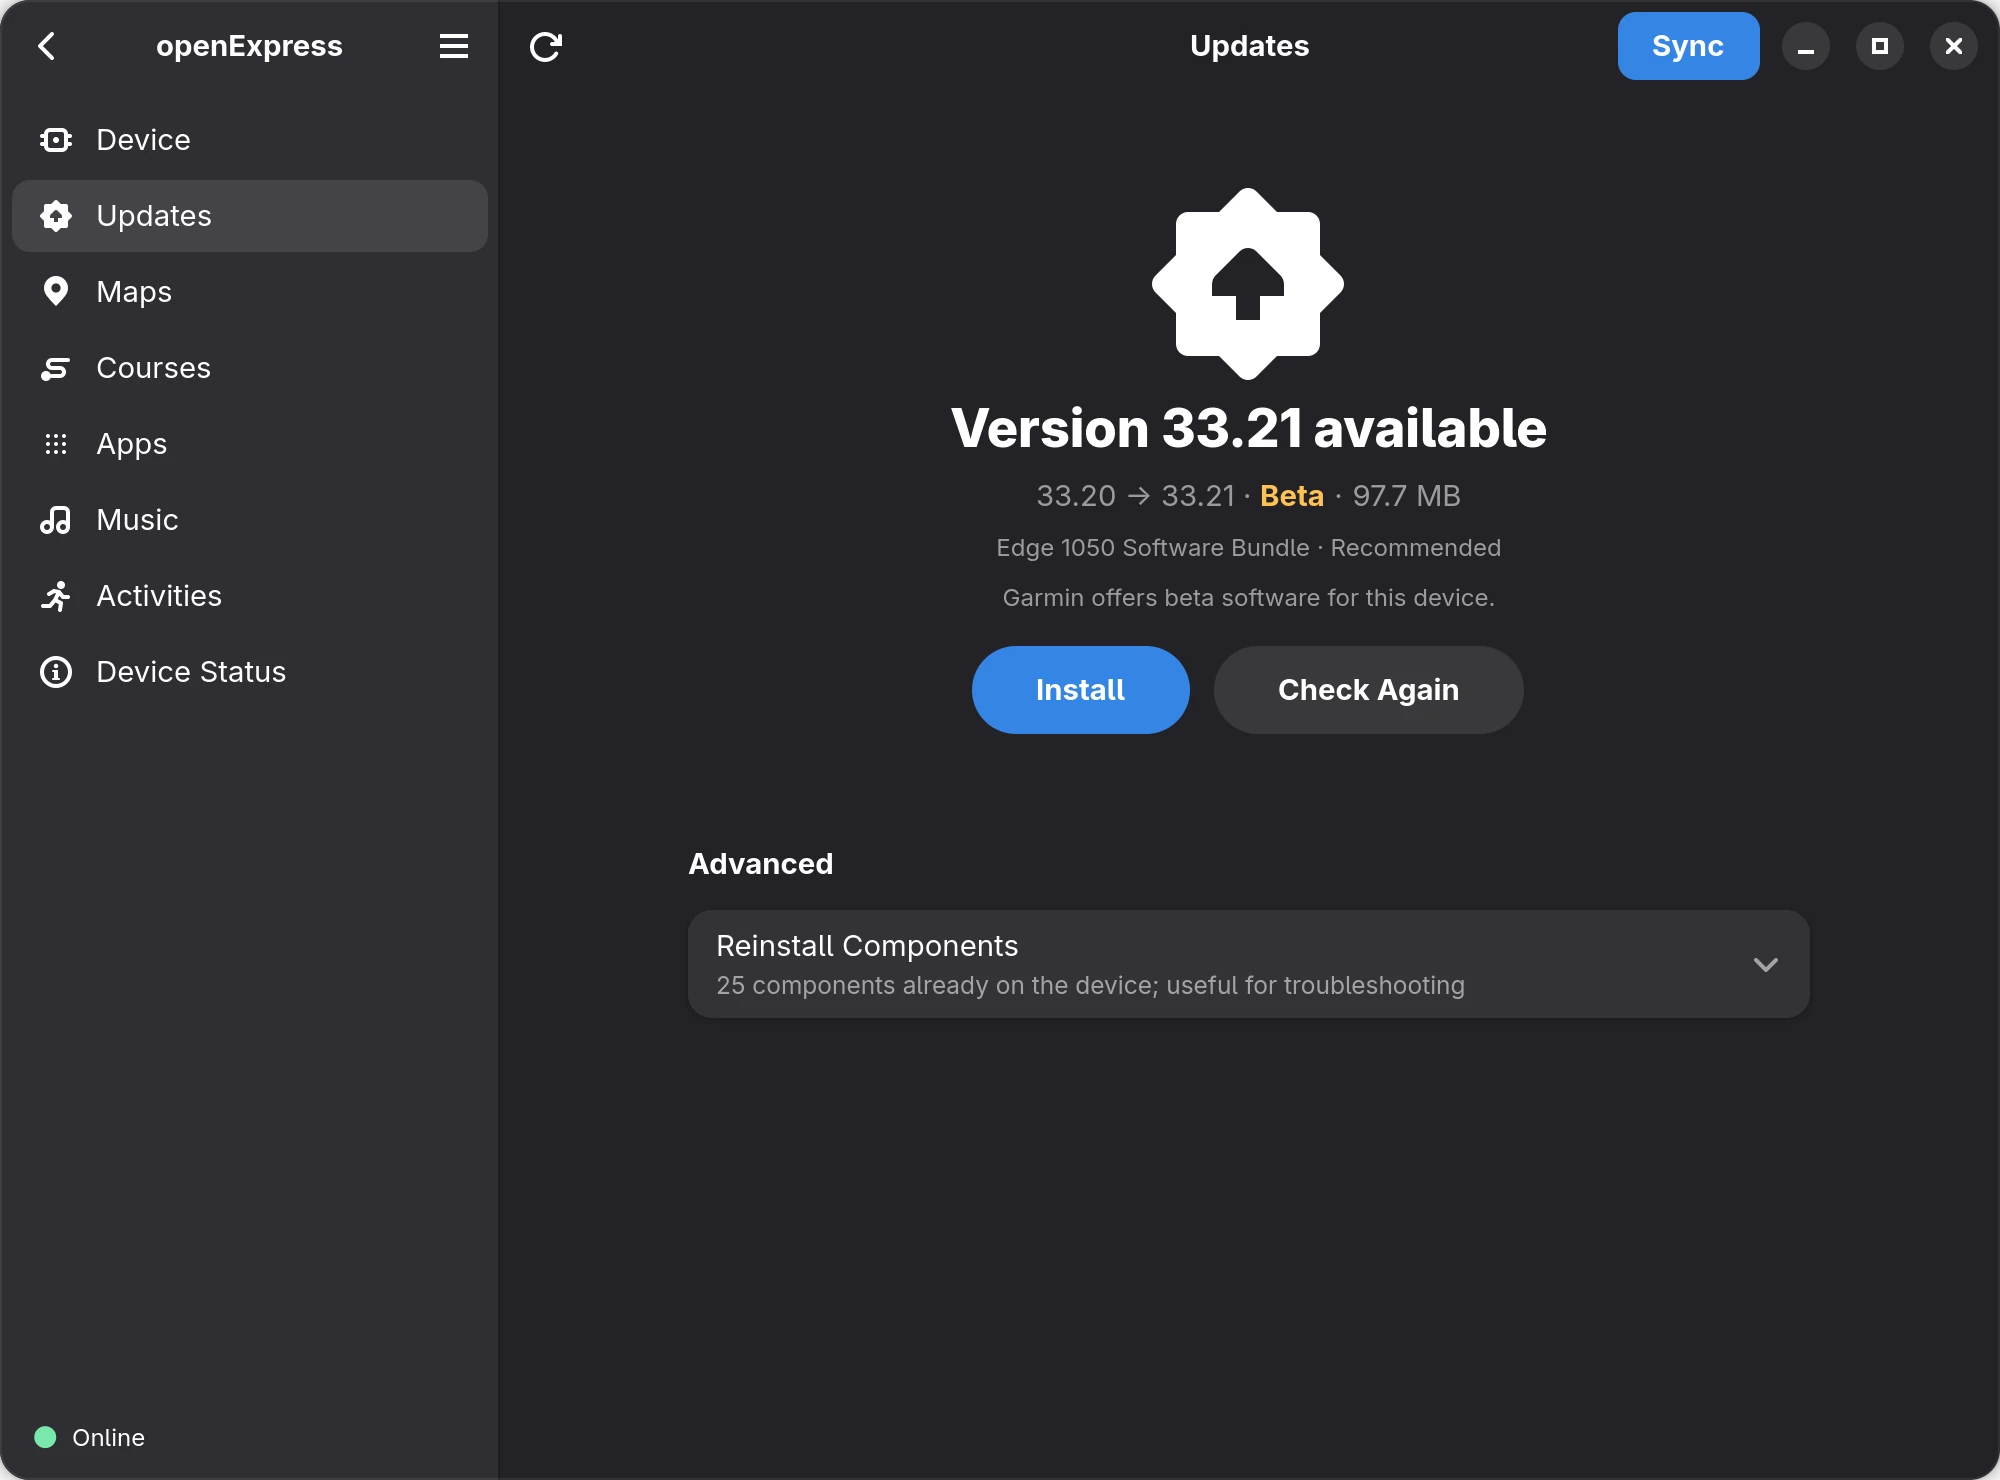
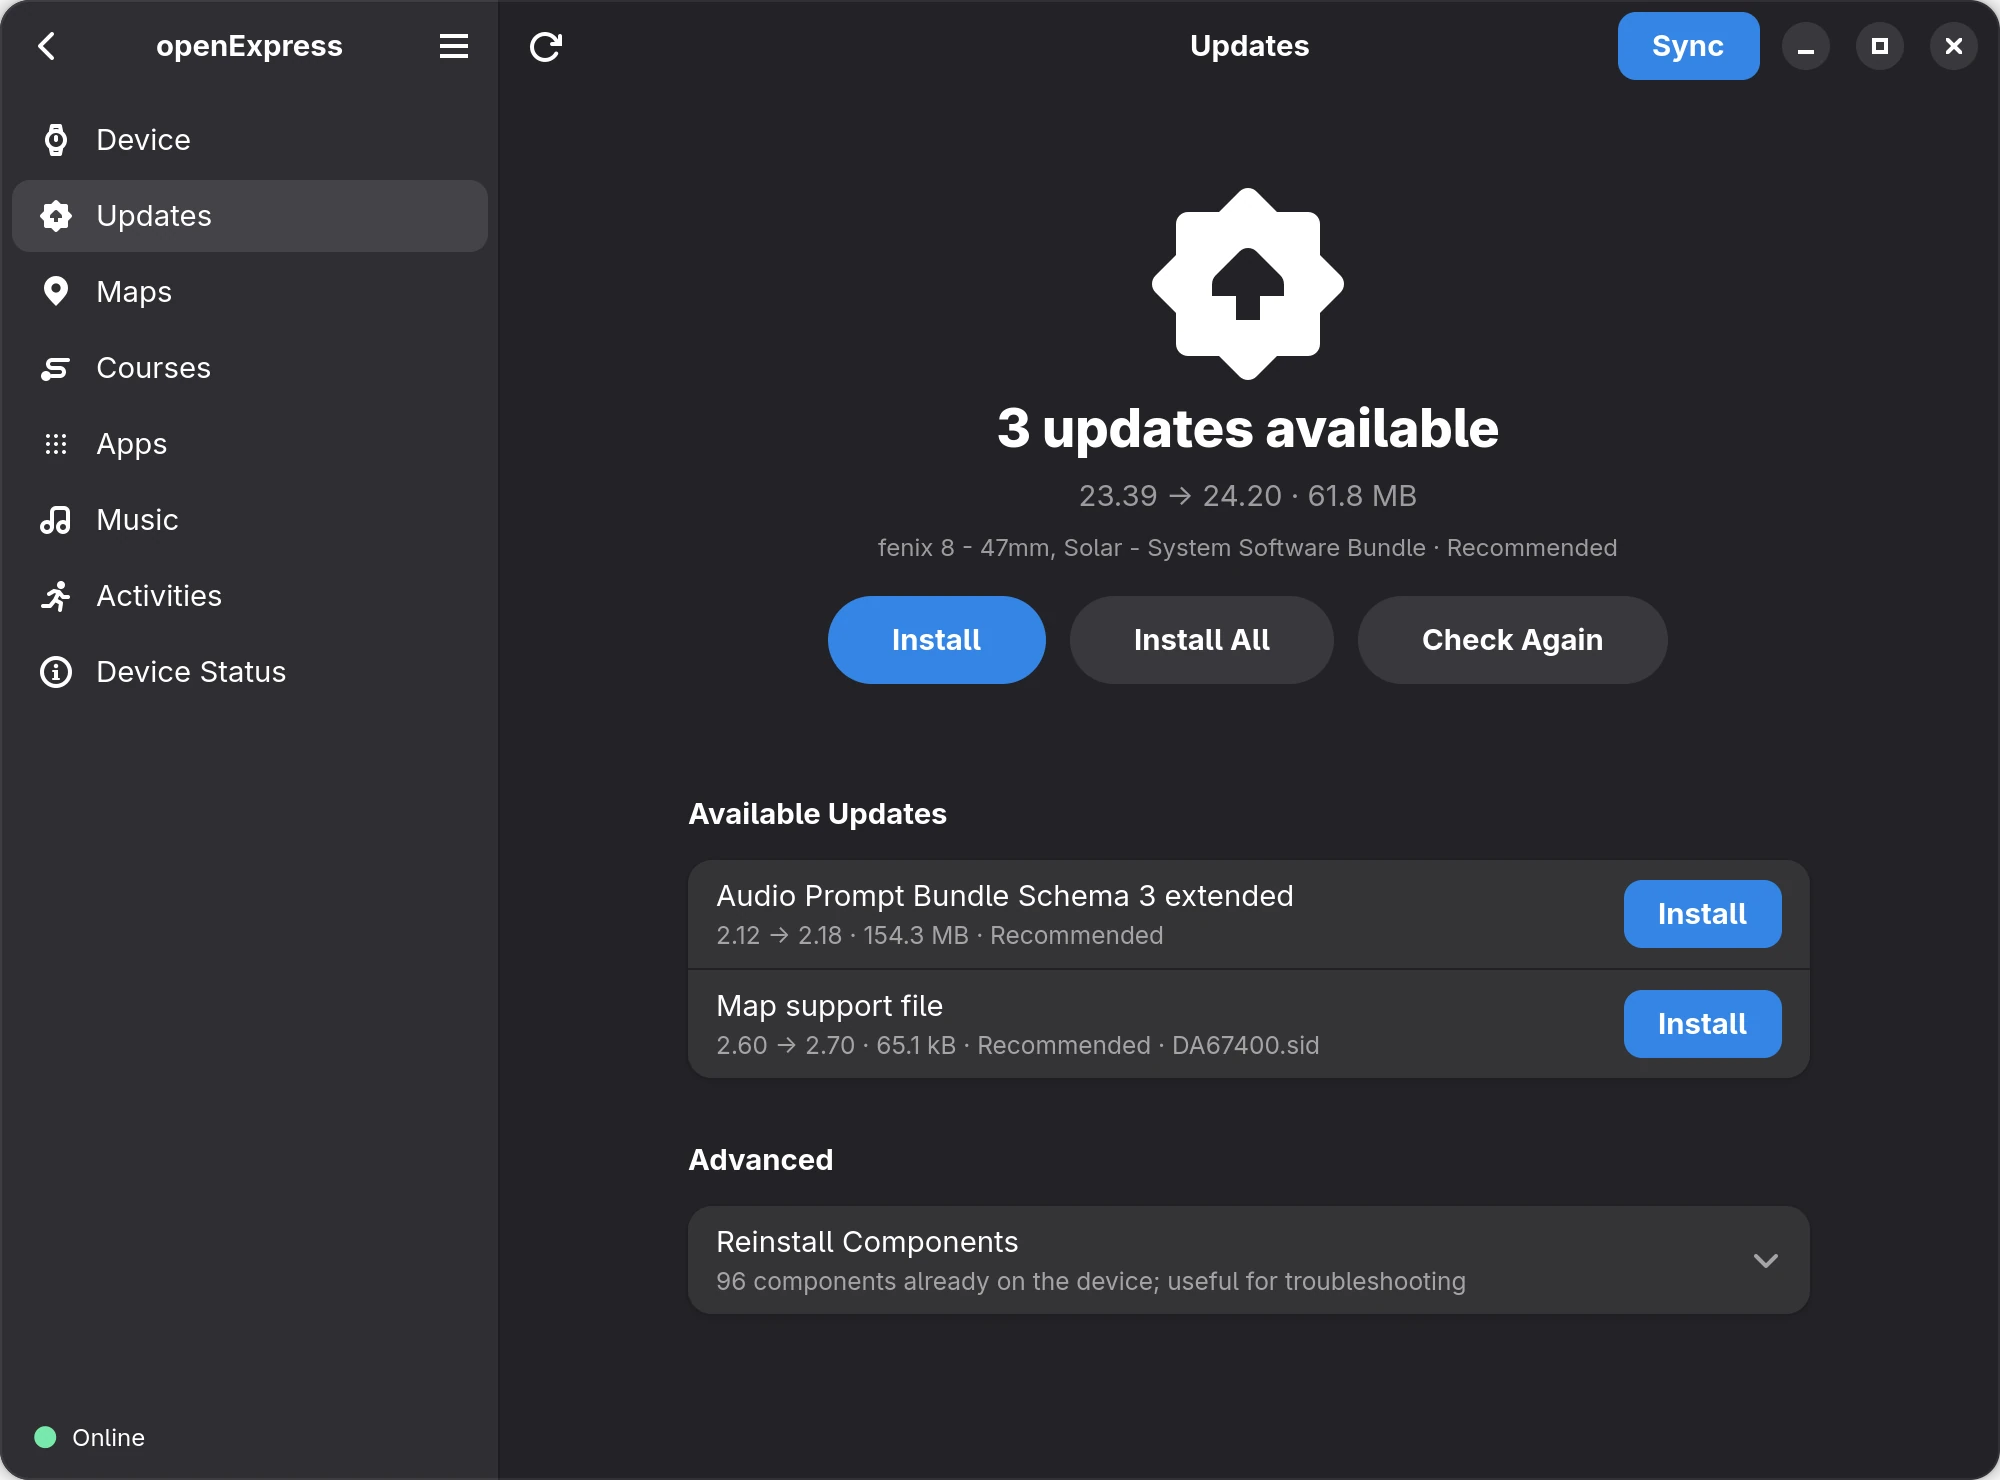
Website: 0.12.0 – sensors and solar charging from the Garmin Connect account, the Updates page of a fēnix 8 with three updates, the current version

diff --git a/index.html b/index.html
@@ -31,7 +31,7 @@
     <h1>openExpress</h1>
     <p class="summary">Manage your Garmin device on Linux</p>
     <p class="lead">An unofficial app for Garmin watches and bike computers: sync with Garmin Connect, software updates, maps, Connect IQ apps and music, over USB.</p>
-    <p class="new"><a href="#updates">New in 0.11.0: car navigators such as the Drive&nbsp;53&nbsp;EX</a></p>
+    <p class="new"><a href="#sensors">New in 0.12.0: your sensors' batteries and solar charging</a></p>
     <p class="unofficial">Unofficial and independent: not affiliated with, endorsed by or supported by Garmin.</p>
     <p class="actions">
       <a class="button install" href="https://flatpak.bojanowski.me/io.github.tomaszbojanowski.OpenExpress.flatpakref">Install</a>
@@ -172,10 +172,10 @@ flatpak install --user bojanowski io.github.tomaszbojanowski.OpenExpress</code><
         <a class="zoom" href="screenshots/full/light-updates.webp" data-dark="screenshots/full/dark-updates.webp">
           <picture>
             <source media="(prefers-color-scheme: dark)" srcset="screenshots/dark-updates.webp">
-            <img src="screenshots/light-updates.webp" width="1400" height="1036" loading="lazy" alt="The Updates page of an Edge 1050: version 33.21 available, a beta of 97.7 MB, with Install and Check Again, and Reinstall Components under Advanced">
+            <img src="screenshots/light-updates.webp" width="1400" height="1036" loading="lazy" alt="The Updates page of a fēnix 8: 3 updates available, the system software 23.39 → 24.20 of 61.8 MB with Install, Install All and Check Again, an audio prompt bundle and a map support file with Install, and Reinstall Components under Advanced">
           </picture>
         </a>
-        <figcaption>The update Garmin offers: its version, its size, and whether it is a&nbsp;beta</figcaption>
+        <figcaption>The updates Garmin offers: their versions and their sizes</figcaption>
       </figure>
       <figure class="shot">
         <a class="zoom" href="screenshots/full/light-update-confirm.webp" data-dark="screenshots/full/dark-update-confirm.webp">
@@ -210,6 +210,22 @@ flatpak install --user bojanowski io.github.tomaszbojanowski.OpenExpress</code><
           </picture>
         </a>
         <figcaption>Turned on: refreshed by the sync just made</figcaption>
+      </figure>
+    </div>
+  </section>
+
+  <section class="updates" id="sensors" aria-labelledby="sensors-title">
+    <h2 id="sensors-title">Sensors and solar charging</h2>
+    <p>On the device page, Account Sensors lists the sensors on your Garmin Connect account with their batteries and when each was last connected, low batteries first. For a watch or bike computer that charges from the sun, Solar Charging says how much activity time the sun added today and in the last 7&nbsp;days. openExpress only reads them from your account; on the command line: <code>openexpress sensors</code> and <code>openexpress solar</code>.</p>
+    <div class="shot-row single">
+      <figure class="shot">
+        <a class="zoom" href="screenshots/full/light-account.webp" data-dark="screenshots/full/dark-account.webp">
+          <picture>
+            <source media="(prefers-color-scheme: dark)" srcset="screenshots/dark-account.webp">
+            <img src="screenshots/light-account.webp" width="1400" height="1036" loading="lazy" alt="The device page of a fēnix 8 Solar: the Garmin Connect account with Account Sensors expanded on five sensors, their batteries and last connections, and Solar Charging: under a minute in the last 7 days">
+          </picture>
+        </a>
+        <figcaption>The account's five sensors with their batteries, and solar charging</figcaption>
       </figure>
     </div>
   </section>
@@ -255,7 +271,7 @@ flatpak install --user bojanowski io.github.tomaszbojanowski.OpenExpress</code><
         <span class="chip"><svg viewBox="0 0 16 16" width="20" height="20" aria-hidden="true" focusable="false" fill="none" stroke="currentColor" stroke-width="1.6" stroke-linecap="round" stroke-linejoin="round"><path d="M13.2 6.2A5.4 5.4 0 0 0 3.4 4.6"/><path d="M3 1.9v2.9h2.9"/><path d="M2.8 9.8a5.4 5.4 0 0 0 9.8 1.6"/><path d="M13 14.1v-2.9h-2.9"/></svg></span>
         <div>
           <h3>Sync with Garmin Connect</h3>
-          <p>New activities, sleep, HRV and other data go up; courses, workouts and Connect IQ apps queued in Garmin Connect come down to the device. TrueUp too. A device not yet on your account can be added from openExpress (experimental).</p>
+          <p>New activities, sleep, HRV and other data go up; courses, workouts and Connect IQ apps queued in Garmin Connect come down to the device. TrueUp too. A device not yet on your account can be added from openExpress (experimental). Shows the batteries of the sensors on your account and the solar charging of a device that charges from the sun.</p>
         </div>
       </li>
       <li class="card">
@@ -313,7 +329,7 @@ flatpak install --user bojanowski io.github.tomaszbojanowski.OpenExpress</code><
         </div>
       </li>
     </ul>
-    <p class="note">Current version: <a href="https://github.com/TomaszBojanowski/openExpress/releases/tag/v0.11.1">0.11.1</a>. Updates arrive with <code>flatpak update</code> or in GNOME Software. Without the repository, download the <code>.flatpak</code> bundle from <a href="https://github.com/TomaszBojanowski/openExpress/releases">Releases</a>; a bundle does not update itself. <a href="https://github.com/TomaszBojanowski/openExpress/blob/main/docs/install.md">Other ways to install</a>.</p>
+    <p class="note">Current version: <a href="https://github.com/TomaszBojanowski/openExpress/releases/tag/v0.12.0">0.12.0</a>. Updates arrive with <code>flatpak update</code> or in GNOME Software. Without the repository, download the <code>.flatpak</code> bundle from <a href="https://github.com/TomaszBojanowski/openExpress/releases">Releases</a>; a bundle does not update itself. <a href="https://github.com/TomaszBojanowski/openExpress/blob/main/docs/install.md">Other ways to install</a>.</p>
   </section>
 
   <section class="privacy" aria-labelledby="privacy-title">
